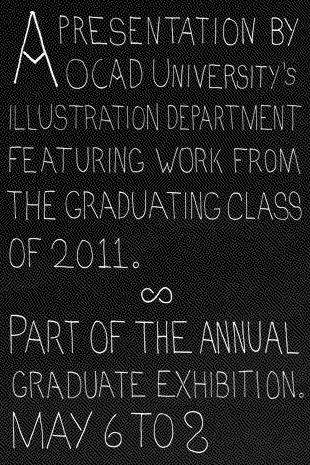
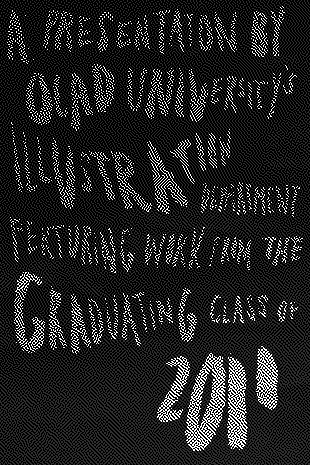
New art and hover for index welcome

diff --git a/assets/stylesheets/main.css b/assets/stylesheets/main.css
@@ -1,1 +1,1 @@
-html,body,div,span,applet,object,iframe,h1,h2,h3,h4,h5,h6,p,blockquote,pre,a,abbr,acronym,address,big,cite,code,del,dfn,em,img,ins,kbd,q,s,samp,small,strike,strong,sub,sup,tt,var,b,u,i,center,dl,dt,dd,ol,ul,li,fieldset,form,label,legend,table,caption,tbody,tfoot,thead,tr,th,td,article,aside,canvas,details,embed,figure,figcaption,footer,header,hgroup,menu,nav,output,ruby,section,summary,time,mark,audio,video{margin:0;padding:0;border:0;font-size:100%;font:inherit;vertical-align:baseline}article,aside,details,figcaption,figure,footer,header,hgroup,menu,nav,section{display:block}body{line-height:1}ol,ul{list-style:none}blockquote,q{quotes:none}blockquote:before,blockquote:after,q:before,q:after{content:'';content:none}table{border-collapse:collapse;border-spacing:0}.clearfix:before,.clearfix:after{content:"\0020";display:block;height:0;overflow:hidden}.clearfix:after{clear:both}.clearfix{zoom:1}div.selector,div.selector span,div.checker span,div.radio span,div.uploader,div.uploader span.action,div.button,div.button span{background-image:url(../images/uniform/sprite.png);background-repeat:no-repeat;-webkit-font-smoothing:antialiased}.selector,.radio,.checker,.uploader,.button,.selector *,.radio *,.checker *,.uploader *,.button *{margin:0;padding:0}input.text,input.email,input.password,textarea.uniform{font-size:12px;font-family:"Helvetica Neue", Helvetica, Arial, sans-serif;font-weight:normal;padding:3px;color:#777;background:url("../images/uniform/bg-input-focus.png") repeat-x 0px 0px;background:url("../images/uniform/bg-input.png") repeat-x 0px 0px;border-top:solid 1px #aaa;border-left:solid 1px #aaa;border-bottom:solid 1px #ccc;border-right:solid 1px #ccc;-webkit-border-radius:3px;-moz-border-radius:3px;border-radius:3px;outline:0}input.text:focus,input.email:focus,input.password:focus,textarea.uniform:focus{-webkit-box-shadow:0px 0px 4px rgba(0, 0, 0, 0.3);-moz-box-shadow:0px 0px 4px rgba(0, 0, 0, 0.3);box-shadow:0px 0px 4px rgba(0, 0, 0, 0.3);border-color:#999;background:url("../images/uniform/bg-input-focus.png") repeat-x 0px 0px}div.selector{background-position:-483px -130px;line-height:26px;height:26px}div.selector span{background-position:right 0px;height:26px;line-height:26px}div.selector select{top:0px;left:0px}div.selector:active,div.selector.active{background-position:-483px -156px}div.selector:active span,div.selector.active span{background-position:right -26px}div.selector.focus,div.selector.hover,div.selector:hover{background-position:-483px -182px}div.selector.focus span,div.selector.hover span,div.selector:hover span{background-position:right -52px}div.selector.focus:active,div.selector.focus.active,div.selector:hover:active,div.selector.active:hover{background-position:-483px -208px}div.selector.focus:active span,div.selector:hover:active span,div.selector.active:hover span,div.selector.focus.active span{background-position:right -78px}div.selector.disabled{background-position:-483px -234px}div.selector.disabled span{background-position:right -104px}div.checker{width:19px;height:19px}div.checker input{width:19px;height:19px}div.checker span{background-position:0px -260px;height:19px;width:19px}div.checker:active span,div.checker.active span{background-position:-19px -260px}div.checker.focus span,div.checker:hover span{background-position:-38px -260px}div.checker.focus:active span,div.checker:active:hover span,div.checker.active:hover span,div.checker.focus.active span{background-position:-57px -260px}div.checker span.checked{background-position:-76px -260px}div.checker:active span.checked,div.checker.active span.checked{background-position:-95px -260px}div.checker.focus span.checked,div.checker:hover span.checked{background-position:-114px -260px}div.checker.focus:active span.checked,div.checker:hover:active span.checked,div.checker.active:hover span.checked,div.checker.active.focus span.checked{background-position:-133px -260px}div.checker.disabled span,div.checker.disabled:active span,div.checker.disabled.active span{background-position:-152px -260px}div.checker.disabled span.checked,div.checker.disabled:active span.checked,div.checker.disabled.active span.checked{background-position:-171px -260px}div.radio{width:18px;height:18px}div.radio input{width:18px;height:18px}div.radio span{height:18px;width:18px;background-position:0px -279px}div.radio:active span,div.radio.active span{background-position:-18px -279px}div.radio.focus span,div.radio:hover span{background-position:-36px -279px}div.radio.focus:active span,div.radio:active:hover span,div.radio.active:hover span,div.radio.active.focus span{background-position:-54px -279px}div.radio span.checked{background-position:-72px -279px}div.radio:active span.checked,div.radio.active span.checked{background-position:-90px -279px}div.radio.focus span.checked,div.radio:hover span.checked{background-position:-108px -279px}div.radio.focus:active span.checked,div.radio:hover:active span.checked,div.radio.focus.active span.checked,div.radio.active:hover span.checked{background-position:-126px -279px}div.radio.disabled span,div.radio.disabled:active span,div.radio.disabled.active span{background-position:-144px -279px}div.radio.disabled span.checked,div.radio.disabled:active span.checked,div.radio.disabled.active span.checked{background-position:-162px -279px}div.uploader{background-position:0px -297px;height:28px}div.uploader span.action{background-position:right -409px;height:24px;line-height:24px}div.uploader span.filename{height:24px;margin:2px 0px 2px 2px;line-height:24px}div.uploader.focus,div.uploader.hover,div.uploader:hover{background-position:0px -353px}div.uploader.focus span.action,div.uploader.hover span.action,div.uploader:hover span.action{background-position:right -437px}div.uploader.active span.action,div.uploader:active span.action{background-position:right -465px}div.uploader.focus.active span.action,div.uploader:focus.active span.action,div.uploader.focus:active span.action,div.uploader:focus:active span.action{background-position:right -493px}div.uploader.disabled{background-position:0px -325px}div.uploader.disabled span.action{background-position:right -381px}div.button{background-position:0px -523px}div.button span{background-position:right -643px}div.button.focus,div.button:focus,div.button:hover,div.button.hover{background-position:0px -553px}div.button.focus span,div.button:focus span,div.button:hover span,div.button.hover span{background-position:right -673px}div.button.active,div.button:active{background-position:0px -583px}div.button.active span,div.button:active span{background-position:right -703px;color:#555}div.button.disabled,div.button:disabled{background-position:0px -613px}div.button.disabled span,div.button:disabled span{background-position:right -733px;color:#bbb;cursor:default}div.button{height:30px}div.button span{margin-left:13px;height:22px;padding-top:8px;font-weight:bold;font-family:"Helvetica Neue", Helvetica, Arial, sans-serif;font-size:12px;letter-spacing:1px;text-transform:uppercase;padding-left:2px;padding-right:15px}div.selector{font-size:12px}div.selector select{font-family:"Helvetica Neue", Helvetica, Arial, sans-serif;font-size:12px;border:solid 1px #fff}div.selector span{padding:0px 25px 0px 2px;cursor:pointer}div.selector span{color:#666;width:120px;text-shadow:0 1px 0 #fff}div.selector.disabled span{color:#bbb}div.checker{margin-right:5px}div.radio{margin-right:3px}div.uploader{width:190px;cursor:pointer}div.uploader span.action{width:85px;text-align:center;text-shadow:#fff 0px 1px 0px;background-color:#fff;font-size:11px;font-weight:bold}div.uploader span.filename{color:#777;width:82px;border-right:solid 1px #bbb;font-size:11px}div.uploader input{width:190px}div.uploader.disabled span.action{color:#aaa}div.uploader.disabled span.filename{border-color:#ddd;color:#aaa}.selector,.checker,.button,.radio,.uploader{display:-moz-inline-box;display:inline-block;vertical-align:middle;zoom:1;*display:inline}.selector select:focus,.radio input:focus,.checker input:focus,.uploader input:focus{outline:0}div.button a,div.button button,div.button input{position:absolute}div.button{cursor:pointer;position:relative}div.button span{display:-moz-inline-box;display:inline-block;line-height:1;text-align:center}div.selector{position:relative;padding-left:10px;overflow:hidden}div.selector span{display:block;overflow:hidden;text-overflow:ellipsis;white-space:nowrap}div.selector select{position:absolute;opacity:0;filter:alpha(opacity=0);height:25px;border:none;background:none}div.checker{position:relative}div.checker span{display:-moz-inline-box;display:inline-block;text-align:center}div.checker input{opacity:0;filter:alpha(opacity=0);display:inline-block;background:none}div.radio{position:relative}div.radio span{display:-moz-inline-box;display:inline-block;text-align:center}div.radio input{opacity:0;filter:alpha(opacity=0);text-align:center;display:inline-block;background:none}div.uploader{position:relative;overflow:hidden;cursor:default}div.uploader span.action{float:left;display:inline;padding:2px 0px;overflow:hidden;cursor:pointer}div.uploader span.filename{padding:0px 10px;float:left;display:block;overflow:hidden;text-overflow:ellipsis;white-space:nowrap;cursor:default}div.uploader input{opacity:0;filter:alpha(opacity=0);position:absolute;top:0;right:0;bottom:0;float:right;height:25px;border:none;cursor:default}body{font:12px/20px sans-serif;background:#fff}h1,h2,h3,h4,h5,h6{font-family:"Cuprum", "Trebuchet MS", arial, sans-serif;text-rendering:optimizeLegibility}span.assistant{color:#999}p.small{color:#ccc}em{font-style:italic}sup{vertical-align:super;font-size:.75em}#header{min-width:930px;background:url("../images/header-bg.png") top center #f9f9f9;position:relative;height:70px;color:#4d4d4d;-webkit-transition:background 0.2s ease-in-out;-moz-transition:background 0.2s ease-in-out;-o-transition:background 0.2s ease-in-out;transition:background 0.2s ease-in-out;-moz-box-shadow:inset 0px 0px 8px rgba(0, 0, 0, 0.1);-webkit-box-shadow:inset 0px 0px 8px rgba(0, 0, 0, 0.1);box-shadow:inset 0px 0px 8px rgba(0, 0, 0, 0.05)}#header .container{position:absolute;bottom:0;width:100%}#header .search-nav-right{float:right;position:absolute;bottom:18px;right:0;width:400px}#header #logo{width:300px;margin-right:10px;background:url("../images/header-logo.png") no-repeat;display:block;float:left;height:70px}#header #logo a{display:block;width:100%;height:70px;text-indent:-9999px}#header a:link,#header a:visited{color:#4d4d4d;text-decoration:none;-webkit-transition:color 0.2s ease-in-out;-moz-transition:color 0.2s ease-in-out;-o-transition:color 0.2s ease-in-out;transition:color 0.2s ease-in-out}#header a:hover{color:#7f00ff;text-decoration:none}#page-nav{float:left;font-family:"Cuprum", "Trebuchet MS", arial, sans-serif;font-size:1.5em}#page-nav ul li{display:inline;margin-right:30px}#page-nav ul li.current-menu-item{border-bottom:20px solid #7f00ff}.year{font-size:1.5em;float:left;letter-spacing:.10em;margin-right:20px}.year.active h2 a,.year li.active a{border-bottom:20px solid #7f00ff}#year-select{position:absolute;bottom:18px;left:310px}#search{position:absolute;bottom:-4px;right:10px}#search #s{border:none;border-bottom:1px #999 dotted;background:none;width:200px;color:#999;padding:5px}#search #s:focus{color:#222;background:rgba(255, 255, 255, 0.5)}.index .post{background:#7f00ff}.index .post img{opacity:0.70;-webkit-transition:opacity 0.5s ease-in-out;-moz-transition:opacity 0.5s ease-in-out;-o-transition:opacity 0.5s ease-in-out;transition:opacity 0.5s ease-in-out}.index .post:hover img{opacity:1}.index #welcome{background:url("../images/index-bg.png") no-repeat #1a1a1a;width:310px;color:#fff;height:465px}#container{color:#333}#container .gallery-item{margin-bottom:10px}#container .gallery img{vertical-align:bottom}#container .gallery a{line-height:0}#container .container{font-family:"Cuprum", "Trebuchet MS", arial, sans-serif;color:#808080;border-top:1px #f2f2f2 solid}#container .container .prev-link{float:left;width:50%}#container .container .prev-link a{display:block;width:100%;padding-left:20px}#container .container .next-link{float:right;width:50%}#container .container .next-link a{text-align:right;display:block;margin-left:-20px;padding-right:20px;width:100%}#container .container a:link,#container .container a:visited{color:gray;text-decoration:none;-webkit-transition:color 0.2s ease-in-out;-moz-transition:color 0.2s ease-in-out;-o-transition:color 0.2s ease-in-out;transition:color 0.2s ease-in-out}#container .container a:hover{color:#7f00ff;text-decoration:none}#container .single-page{margin:2em auto;width:600px}#container .single-page h1{font-size:3em;line-height:1em;padding-bottom:10px;text-align:center}#container .single-page blockquote{margin:0 0 1em 1em}#container .single-page h2{font-size:2em;line-height:1em;padding:20px 0;text-align:center}#container .single-page p{margin-bottom:1em}#container .single-page p:last-child{margin-bottom:0}#container .single-page .left,#container .single-page .right{float:left;width:280px}#container .single-page .left{margin-right:10px}#container .single-page .right{margin-left:10px}#container .single-page .faculty-list div{width:25%;padding:0;margin:0}#container a:link,#container a:visited{color:#7f00ff;text-decoration:none;-webkit-transition:color 0.2s ease-in-out;-moz-transition:color 0.2s ease-in-out;-o-transition:color 0.2s ease-in-out;transition:color 0.2s ease-in-out}#container a:hover{color:#333333;text-decoration:none}#year-archive .year-title{font-size:3em;line-height:1em;padding:20px;background:#333;letter-spacing:.10em;color:#fff;width:115px;height:115px}#year-archive .year-title:hover{background:#7f00ff;color:#fff}#year-archive .thumbnail{position:relative}#year-archive .thumbnail h2{position:absolute;bottom:0;display:block;font-size:1.25em;padding:5px;background:rgba(0, 0, 0, 0.6);line-height:1em}#year-archive .thumbnail img{margin-bottom:-6px}#year-archive .thumbnail:hover h2{background:#7f00ff}#year-archive a:link,#year-archive a:visited{color:#dedede;text-decoration:none;-webkit-transition:color 0.2s ease-in-out;-moz-transition:color 0.2s ease-in-out;-o-transition:color 0.2s ease-in-out;transition:color 0.2s ease-in-out}#year-archive a:hover{color:white;text-decoration:none}#illustrator-archive .thumbnail{position:relative}#illustrator-archive .thumbnail h2{position:absolute;bottom:0;display:block;opacity:0;padding:5px;font-size:1.25em;line-height:1em;background:rgba(0, 0, 0, 0.6);-webkit-transition:opacity 0.2s ease-in-out;-moz-transition:opacity 0.2s ease-in-out;-o-transition:opacity 0.2s ease-in-out;transition:opacity 0.2s ease-in-out}#illustrator-archive .thumbnail img{margin-bottom:-7px}#illustrator-archive .thumbnail:hover h2{display:block;opacity:1}#illustrator-archive a:link,#illustrator-archive a:visited{color:#7f00ff;text-decoration:none;-webkit-transition:color 0.2s ease-in-out;-moz-transition:color 0.2s ease-in-out;-o-transition:color 0.2s ease-in-out;transition:color 0.2s ease-in-out}#illustrator-archive a:hover{color:white;text-decoration:none}#search-results .post{margin-bottom:10px}#search-results .thumbnail{position:relative}#search-results .thumbnail h2{position:absolute;bottom:0;display:block;padding:5px;font-size:1.25em;line-height:1em;background:rgba(0, 0, 0, 0.6)}#search-results .thumbnail img{margin-bottom:-6px}#search-results .thumbnail:hover h2{background:#7f00ff}#search-results h1{font-size:2em;line-height:1em;padding-bottom:10px}#search-results h1 .term{color:#7f00ff}#search-results #s{border:1px solid #ddd;padding:10px;width:200px;color:#999;margin-right:10px;-moz-border-radius:10px;-webkit-border-radius:10px;border-radius:10px}#search-results #s:focus{color:#000}#search-results #search-form{width:260px;padding:20px;margin:2em 0}#search-results #search-form p{margin-top:1em}#search-results #neg-search{width:300px;margin:2em 0;padding:20px 0}#search-results #neg-search h2{font-size:2em;line-height:1em}#search-results a:link,#search-results a:visited{color:#dedede;text-decoration:none;-webkit-transition:color 0.2s ease-in-out;-moz-transition:color 0.2s ease-in-out;-o-transition:color 0.2s ease-in-out;transition:color 0.2s ease-in-out}#search-results a:hover{color:white;text-decoration:none}#illustrator-details{width:260px;padding:20px}#illustrator-details .info{border-bottom:1px solid #e5e5e5;padding:10px 0;line-height:1em}#illustrator-details .phone{border-bottom:none}#illustrator-details .statement p{margin-bottom:1em}#illustrator-details h1{font-size:3em;line-height:1em;border-bottom:1px solid #ccc;padding-bottom:10px}#illustrator-details h2{font-size:1.5em;margin:.5em 0}#illustrator-details a:link,#illustrator-details a:visited{color:#7f00ff;text-decoration:none;-webkit-transition:color 0.2s ease-in-out;-moz-transition:color 0.2s ease-in-out;-o-transition:color 0.2s ease-in-out;transition:color 0.2s ease-in-out}#illustrator-details a:hover{color:#333333;text-decoration:none}#image-navigation{border-top:1px solid #e5e5e5;padding:10px 0}#image-navigation-shortcuts{font-size:.85em;color:#ccc}.arrow{color:#7f00ff;font-family:helvetica, arial, sans-serif}#footer{margin:2em auto;text-align:center;color:#ccc}#footer .container{width:600px;margin:0 auto}#footer .footer-selects{width:350px;margin:2em auto}#footer .footer-selects-person{float:left;margin:-3px 10px 0 0}#footer a:link,#footer a:visited{color:#7f00ff;text-decoration:none;-webkit-transition:color 0.2s ease-in-out;-moz-transition:color 0.2s ease-in-out;-o-transition:color 0.2s ease-in-out;transition:color 0.2s ease-in-out}#footer a:hover{color:#333333;text-decoration:none}#footer-image{margin-top:2em}#page-not-found{margin-top:2em;text-align:center}#page-not-found h1{font-size:3em;line-height:1em}#page-not-found p{color:#666;margin:1em 0}#page-not-found #searchform{margin:2em 0}#page-not-found #searchform #s{border:1px solid #ddd;padding:10px;width:280px;color:#999;margin-right:10px;-moz-border-radius:10px;-webkit-border-radius:10px;border-radius:10px;-moz-box-shadow:0px 0px 6px #ddd;-webkit-box-shadow:0px 0px 6px #ddd;box-shadow:0px 0px 6px #ddd}#page-not-found #searchform #s:focus{color:#000}
+html,body,div,span,applet,object,iframe,h1,h2,h3,h4,h5,h6,p,blockquote,pre,a,abbr,acronym,address,big,cite,code,del,dfn,em,img,ins,kbd,q,s,samp,small,strike,strong,sub,sup,tt,var,b,u,i,center,dl,dt,dd,ol,ul,li,fieldset,form,label,legend,table,caption,tbody,tfoot,thead,tr,th,td,article,aside,canvas,details,embed,figure,figcaption,footer,header,hgroup,menu,nav,output,ruby,section,summary,time,mark,audio,video{margin:0;padding:0;border:0;font-size:100%;font:inherit;vertical-align:baseline}article,aside,details,figcaption,figure,footer,header,hgroup,menu,nav,section{display:block}body{line-height:1}ol,ul{list-style:none}blockquote,q{quotes:none}blockquote:before,blockquote:after,q:before,q:after{content:'';content:none}table{border-collapse:collapse;border-spacing:0}.clearfix:before,.clearfix:after{content:"\0020";display:block;height:0;overflow:hidden}.clearfix:after{clear:both}.clearfix{zoom:1}div.selector,div.selector span,div.checker span,div.radio span,div.uploader,div.uploader span.action,div.button,div.button span{background-image:url(../images/uniform/sprite.png);background-repeat:no-repeat;-webkit-font-smoothing:antialiased}.selector,.radio,.checker,.uploader,.button,.selector *,.radio *,.checker *,.uploader *,.button *{margin:0;padding:0}input.text,input.email,input.password,textarea.uniform{font-size:12px;font-family:"Helvetica Neue", Helvetica, Arial, sans-serif;font-weight:normal;padding:3px;color:#777;background:url("../images/uniform/bg-input-focus.png") repeat-x 0px 0px;background:url("../images/uniform/bg-input.png") repeat-x 0px 0px;border-top:solid 1px #aaa;border-left:solid 1px #aaa;border-bottom:solid 1px #ccc;border-right:solid 1px #ccc;-webkit-border-radius:3px;-moz-border-radius:3px;border-radius:3px;outline:0}input.text:focus,input.email:focus,input.password:focus,textarea.uniform:focus{-webkit-box-shadow:0px 0px 4px rgba(0, 0, 0, 0.3);-moz-box-shadow:0px 0px 4px rgba(0, 0, 0, 0.3);box-shadow:0px 0px 4px rgba(0, 0, 0, 0.3);border-color:#999;background:url("../images/uniform/bg-input-focus.png") repeat-x 0px 0px}div.selector{background-position:-483px -130px;line-height:26px;height:26px}div.selector span{background-position:right 0px;height:26px;line-height:26px}div.selector select{top:0px;left:0px}div.selector:active,div.selector.active{background-position:-483px -156px}div.selector:active span,div.selector.active span{background-position:right -26px}div.selector.focus,div.selector.hover,div.selector:hover{background-position:-483px -182px}div.selector.focus span,div.selector.hover span,div.selector:hover span{background-position:right -52px}div.selector.focus:active,div.selector.focus.active,div.selector:hover:active,div.selector.active:hover{background-position:-483px -208px}div.selector.focus:active span,div.selector:hover:active span,div.selector.active:hover span,div.selector.focus.active span{background-position:right -78px}div.selector.disabled{background-position:-483px -234px}div.selector.disabled span{background-position:right -104px}div.checker{width:19px;height:19px}div.checker input{width:19px;height:19px}div.checker span{background-position:0px -260px;height:19px;width:19px}div.checker:active span,div.checker.active span{background-position:-19px -260px}div.checker.focus span,div.checker:hover span{background-position:-38px -260px}div.checker.focus:active span,div.checker:active:hover span,div.checker.active:hover span,div.checker.focus.active span{background-position:-57px -260px}div.checker span.checked{background-position:-76px -260px}div.checker:active span.checked,div.checker.active span.checked{background-position:-95px -260px}div.checker.focus span.checked,div.checker:hover span.checked{background-position:-114px -260px}div.checker.focus:active span.checked,div.checker:hover:active span.checked,div.checker.active:hover span.checked,div.checker.active.focus span.checked{background-position:-133px -260px}div.checker.disabled span,div.checker.disabled:active span,div.checker.disabled.active span{background-position:-152px -260px}div.checker.disabled span.checked,div.checker.disabled:active span.checked,div.checker.disabled.active span.checked{background-position:-171px -260px}div.radio{width:18px;height:18px}div.radio input{width:18px;height:18px}div.radio span{height:18px;width:18px;background-position:0px -279px}div.radio:active span,div.radio.active span{background-position:-18px -279px}div.radio.focus span,div.radio:hover span{background-position:-36px -279px}div.radio.focus:active span,div.radio:active:hover span,div.radio.active:hover span,div.radio.active.focus span{background-position:-54px -279px}div.radio span.checked{background-position:-72px -279px}div.radio:active span.checked,div.radio.active span.checked{background-position:-90px -279px}div.radio.focus span.checked,div.radio:hover span.checked{background-position:-108px -279px}div.radio.focus:active span.checked,div.radio:hover:active span.checked,div.radio.focus.active span.checked,div.radio.active:hover span.checked{background-position:-126px -279px}div.radio.disabled span,div.radio.disabled:active span,div.radio.disabled.active span{background-position:-144px -279px}div.radio.disabled span.checked,div.radio.disabled:active span.checked,div.radio.disabled.active span.checked{background-position:-162px -279px}div.uploader{background-position:0px -297px;height:28px}div.uploader span.action{background-position:right -409px;height:24px;line-height:24px}div.uploader span.filename{height:24px;margin:2px 0px 2px 2px;line-height:24px}div.uploader.focus,div.uploader.hover,div.uploader:hover{background-position:0px -353px}div.uploader.focus span.action,div.uploader.hover span.action,div.uploader:hover span.action{background-position:right -437px}div.uploader.active span.action,div.uploader:active span.action{background-position:right -465px}div.uploader.focus.active span.action,div.uploader:focus.active span.action,div.uploader.focus:active span.action,div.uploader:focus:active span.action{background-position:right -493px}div.uploader.disabled{background-position:0px -325px}div.uploader.disabled span.action{background-position:right -381px}div.button{background-position:0px -523px}div.button span{background-position:right -643px}div.button.focus,div.button:focus,div.button:hover,div.button.hover{background-position:0px -553px}div.button.focus span,div.button:focus span,div.button:hover span,div.button.hover span{background-position:right -673px}div.button.active,div.button:active{background-position:0px -583px}div.button.active span,div.button:active span{background-position:right -703px;color:#555}div.button.disabled,div.button:disabled{background-position:0px -613px}div.button.disabled span,div.button:disabled span{background-position:right -733px;color:#bbb;cursor:default}div.button{height:30px}div.button span{margin-left:13px;height:22px;padding-top:8px;font-weight:bold;font-family:"Helvetica Neue", Helvetica, Arial, sans-serif;font-size:12px;letter-spacing:1px;text-transform:uppercase;padding-left:2px;padding-right:15px}div.selector{font-size:12px}div.selector select{font-family:"Helvetica Neue", Helvetica, Arial, sans-serif;font-size:12px;border:solid 1px #fff}div.selector span{padding:0px 25px 0px 2px;cursor:pointer}div.selector span{color:#666;width:120px;text-shadow:0 1px 0 #fff}div.selector.disabled span{color:#bbb}div.checker{margin-right:5px}div.radio{margin-right:3px}div.uploader{width:190px;cursor:pointer}div.uploader span.action{width:85px;text-align:center;text-shadow:#fff 0px 1px 0px;background-color:#fff;font-size:11px;font-weight:bold}div.uploader span.filename{color:#777;width:82px;border-right:solid 1px #bbb;font-size:11px}div.uploader input{width:190px}div.uploader.disabled span.action{color:#aaa}div.uploader.disabled span.filename{border-color:#ddd;color:#aaa}.selector,.checker,.button,.radio,.uploader{display:-moz-inline-box;display:inline-block;vertical-align:middle;zoom:1;*display:inline}.selector select:focus,.radio input:focus,.checker input:focus,.uploader input:focus{outline:0}div.button a,div.button button,div.button input{position:absolute}div.button{cursor:pointer;position:relative}div.button span{display:-moz-inline-box;display:inline-block;line-height:1;text-align:center}div.selector{position:relative;padding-left:10px;overflow:hidden}div.selector span{display:block;overflow:hidden;text-overflow:ellipsis;white-space:nowrap}div.selector select{position:absolute;opacity:0;filter:alpha(opacity=0);height:25px;border:none;background:none}div.checker{position:relative}div.checker span{display:-moz-inline-box;display:inline-block;text-align:center}div.checker input{opacity:0;filter:alpha(opacity=0);display:inline-block;background:none}div.radio{position:relative}div.radio span{display:-moz-inline-box;display:inline-block;text-align:center}div.radio input{opacity:0;filter:alpha(opacity=0);text-align:center;display:inline-block;background:none}div.uploader{position:relative;overflow:hidden;cursor:default}div.uploader span.action{float:left;display:inline;padding:2px 0px;overflow:hidden;cursor:pointer}div.uploader span.filename{padding:0px 10px;float:left;display:block;overflow:hidden;text-overflow:ellipsis;white-space:nowrap;cursor:default}div.uploader input{opacity:0;filter:alpha(opacity=0);position:absolute;top:0;right:0;bottom:0;float:right;height:25px;border:none;cursor:default}body{font:12px/20px sans-serif;background:#fff}h1,h2,h3,h4,h5,h6{font-family:"Cuprum", "Trebuchet MS", arial, sans-serif;text-rendering:optimizeLegibility}span.assistant{color:#999}p.small{color:#ccc}em{font-style:italic}sup{vertical-align:super;font-size:.75em}#header{min-width:930px;background:url("../images/header-bg.png") top center #f9f9f9;position:relative;height:70px;color:#4d4d4d;-webkit-transition:background 0.2s ease-in-out;-moz-transition:background 0.2s ease-in-out;-o-transition:background 0.2s ease-in-out;transition:background 0.2s ease-in-out;-moz-box-shadow:inset 0px 0px 8px rgba(0, 0, 0, 0.1);-webkit-box-shadow:inset 0px 0px 8px rgba(0, 0, 0, 0.1);box-shadow:inset 0px 0px 8px rgba(0, 0, 0, 0.05)}#header .container{position:absolute;bottom:0;width:100%}#header .search-nav-right{float:right;position:absolute;bottom:18px;right:0;width:400px}#header #logo{width:300px;margin-right:10px;background:url("../images/header-logo.png") no-repeat;display:block;float:left;height:70px}#header #logo a{display:block;width:100%;height:70px;text-indent:-9999px}#header a:link,#header a:visited{color:#4d4d4d;text-decoration:none;-webkit-transition:color 0.2s ease-in-out;-moz-transition:color 0.2s ease-in-out;-o-transition:color 0.2s ease-in-out;transition:color 0.2s ease-in-out}#header a:hover{color:#7f00ff;text-decoration:none}#page-nav{float:left;font-family:"Cuprum", "Trebuchet MS", arial, sans-serif;font-size:1.5em}#page-nav ul li{display:inline;margin-right:30px}#page-nav ul li.current-menu-item{border-bottom:20px solid #7f00ff}.year{font-size:1.5em;float:left;letter-spacing:.10em;margin-right:20px}.year.active h2 a,.year li.active a{border-bottom:20px solid #7f00ff}#year-select{position:absolute;bottom:18px;left:310px}#search{position:absolute;bottom:-4px;right:10px}#search #s{border:none;border-bottom:1px #999 dotted;background:none;width:200px;color:#999;padding:5px}#search #s:focus{color:#222;background:rgba(255, 255, 255, 0.5)}.index .post{background:#7f00ff}.index .post img{opacity:0.70;-webkit-transition:opacity 0.5s ease-in-out;-moz-transition:opacity 0.5s ease-in-out;-o-transition:opacity 0.5s ease-in-out;transition:opacity 0.5s ease-in-out}.index .post:hover img{opacity:1}.index #welcome{background:url("../images/index-bg.png") no-repeat #1a1a1a;width:310px;color:#fff;height:465px}.index #welcome:hover{background:url("../images/index-bg-hover.png") no-repeat #1a1a1a}#container{color:#333}#container .gallery-item{margin-bottom:10px}#container .gallery img{vertical-align:bottom}#container .gallery a{line-height:0}#container .container{font-family:"Cuprum", "Trebuchet MS", arial, sans-serif;color:#808080;border-top:1px #f2f2f2 solid}#container .container .prev-link{float:left;width:50%}#container .container .prev-link a{display:block;width:100%;padding-left:20px}#container .container .next-link{float:right;width:50%}#container .container .next-link a{text-align:right;display:block;margin-left:-20px;padding-right:20px;width:100%}#container .container a:link,#container .container a:visited{color:gray;text-decoration:none;-webkit-transition:color 0.2s ease-in-out;-moz-transition:color 0.2s ease-in-out;-o-transition:color 0.2s ease-in-out;transition:color 0.2s ease-in-out}#container .container a:hover{color:#7f00ff;text-decoration:none}#container .single-page{margin:2em auto;width:600px}#container .single-page h1{font-size:3em;line-height:1em;padding-bottom:10px;text-align:center}#container .single-page blockquote{margin:0 0 1em 1em}#container .single-page h2{font-size:2em;line-height:1em;padding:20px 0;text-align:center}#container .single-page p{margin-bottom:1em}#container .single-page p:last-child{margin-bottom:0}#container .single-page .left,#container .single-page .right{float:left;width:280px}#container .single-page .left{margin-right:10px}#container .single-page .right{margin-left:10px}#container .single-page .faculty-list div{width:25%;padding:0;margin:0}#container a:link,#container a:visited{color:#7f00ff;text-decoration:none;-webkit-transition:color 0.2s ease-in-out;-moz-transition:color 0.2s ease-in-out;-o-transition:color 0.2s ease-in-out;transition:color 0.2s ease-in-out}#container a:hover{color:#333333;text-decoration:none}#year-archive .year-title{font-size:3em;line-height:1em;padding:20px;background:#333;letter-spacing:.10em;color:#fff;width:115px;height:115px}#year-archive .year-title:hover{background:#7f00ff;color:#fff}#year-archive .thumbnail{position:relative}#year-archive .thumbnail h2{position:absolute;bottom:0;display:block;font-size:1.25em;padding:5px;background:rgba(0, 0, 0, 0.6);line-height:1em}#year-archive .thumbnail img{margin-bottom:-6px}#year-archive .thumbnail:hover h2{background:#7f00ff}#year-archive a:link,#year-archive a:visited{color:#dedede;text-decoration:none;-webkit-transition:color 0.2s ease-in-out;-moz-transition:color 0.2s ease-in-out;-o-transition:color 0.2s ease-in-out;transition:color 0.2s ease-in-out}#year-archive a:hover{color:white;text-decoration:none}#illustrator-archive .thumbnail{position:relative}#illustrator-archive .thumbnail h2{position:absolute;bottom:0;display:block;opacity:0;padding:5px;font-size:1.25em;line-height:1em;background:rgba(0, 0, 0, 0.6);-webkit-transition:opacity 0.2s ease-in-out;-moz-transition:opacity 0.2s ease-in-out;-o-transition:opacity 0.2s ease-in-out;transition:opacity 0.2s ease-in-out}#illustrator-archive .thumbnail img{margin-bottom:-7px}#illustrator-archive .thumbnail:hover h2{display:block;opacity:1}#illustrator-archive a:link,#illustrator-archive a:visited{color:#7f00ff;text-decoration:none;-webkit-transition:color 0.2s ease-in-out;-moz-transition:color 0.2s ease-in-out;-o-transition:color 0.2s ease-in-out;transition:color 0.2s ease-in-out}#illustrator-archive a:hover{color:white;text-decoration:none}#search-results .post{margin-bottom:10px}#search-results .thumbnail{position:relative}#search-results .thumbnail h2{position:absolute;bottom:0;display:block;padding:5px;font-size:1.25em;line-height:1em;background:rgba(0, 0, 0, 0.6)}#search-results .thumbnail img{margin-bottom:-6px}#search-results .thumbnail:hover h2{background:#7f00ff}#search-results h1{font-size:2em;line-height:1em;padding-bottom:10px}#search-results h1 .term{color:#7f00ff}#search-results #s{border:1px solid #ddd;padding:10px;width:200px;color:#999;margin-right:10px;-moz-border-radius:10px;-webkit-border-radius:10px;border-radius:10px}#search-results #s:focus{color:#000}#search-results #search-form{width:260px;padding:20px;margin:2em 0}#search-results #search-form p{margin-top:1em}#search-results #neg-search{width:300px;margin:2em 0;padding:20px 0}#search-results #neg-search h2{font-size:2em;line-height:1em}#search-results a:link,#search-results a:visited{color:#dedede;text-decoration:none;-webkit-transition:color 0.2s ease-in-out;-moz-transition:color 0.2s ease-in-out;-o-transition:color 0.2s ease-in-out;transition:color 0.2s ease-in-out}#search-results a:hover{color:white;text-decoration:none}#illustrator-details{width:260px;padding:20px}#illustrator-details .info{border-bottom:1px solid #e5e5e5;padding:10px 0;line-height:1em}#illustrator-details .phone{border-bottom:none}#illustrator-details .statement p{margin-bottom:1em}#illustrator-details h1{font-size:3em;line-height:1em;border-bottom:1px solid #ccc;padding-bottom:10px}#illustrator-details h2{font-size:1.5em;margin:.5em 0}#illustrator-details a:link,#illustrator-details a:visited{color:#7f00ff;text-decoration:none;-webkit-transition:color 0.2s ease-in-out;-moz-transition:color 0.2s ease-in-out;-o-transition:color 0.2s ease-in-out;transition:color 0.2s ease-in-out}#illustrator-details a:hover{color:#333333;text-decoration:none}#image-navigation{border-top:1px solid #e5e5e5;padding:10px 0}#image-navigation-shortcuts{font-size:.85em;color:#ccc}.arrow{color:#7f00ff;font-family:helvetica, arial, sans-serif}#footer{margin:2em auto;text-align:center;color:#ccc}#footer .container{width:600px;margin:0 auto}#footer .footer-selects{width:350px;margin:2em auto}#footer .footer-selects-person{float:left;margin:-3px 10px 0 0}#footer a:link,#footer a:visited{color:#7f00ff;text-decoration:none;-webkit-transition:color 0.2s ease-in-out;-moz-transition:color 0.2s ease-in-out;-o-transition:color 0.2s ease-in-out;transition:color 0.2s ease-in-out}#footer a:hover{color:#333333;text-decoration:none}#footer-image{margin-top:2em}#page-not-found{margin-top:2em;text-align:center}#page-not-found h1{font-size:3em;line-height:1em}#page-not-found p{color:#666;margin:1em 0}#page-not-found #searchform{margin:2em 0}#page-not-found #searchform #s{border:1px solid #ddd;padding:10px;width:280px;color:#999;margin-right:10px;-moz-border-radius:10px;-webkit-border-radius:10px;border-radius:10px;-moz-box-shadow:0px 0px 6px #ddd;-webkit-box-shadow:0px 0px 6px #ddd;box-shadow:0px 0px 6px #ddd}#page-not-found #searchform #s:focus{color:#000}

diff --git a/assets/sass/main.scss b/assets/sass/main.scss
@@ -139,6 +139,9 @@ box-shadow:inset 0px 0px 8px rgba(0,0,0,0.05); /* Opera 10.5, IE9, Chrome 10+ */
 		width:155px * 2;
 		color:#fff;
 		height:155px * 3;
+		&:hover {
+			background:url('../images/index-bg-hover.png') no-repeat #1a1a1a;
+		}
 	}
 	
 }
